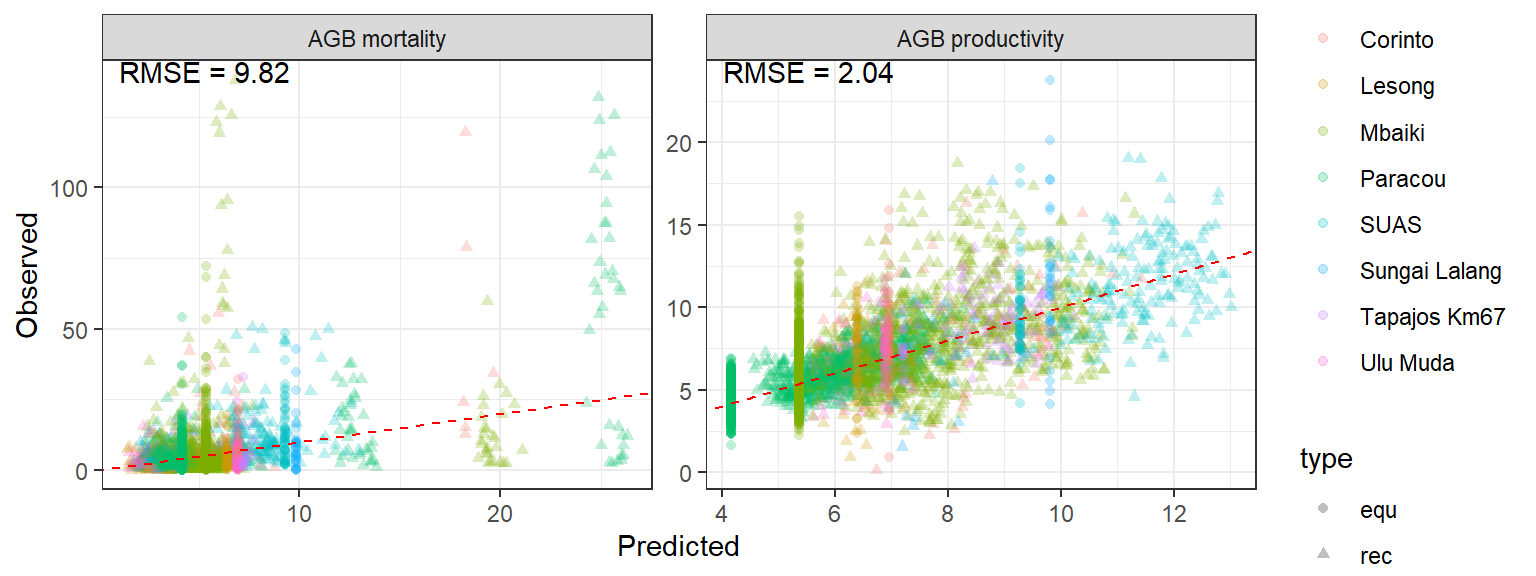
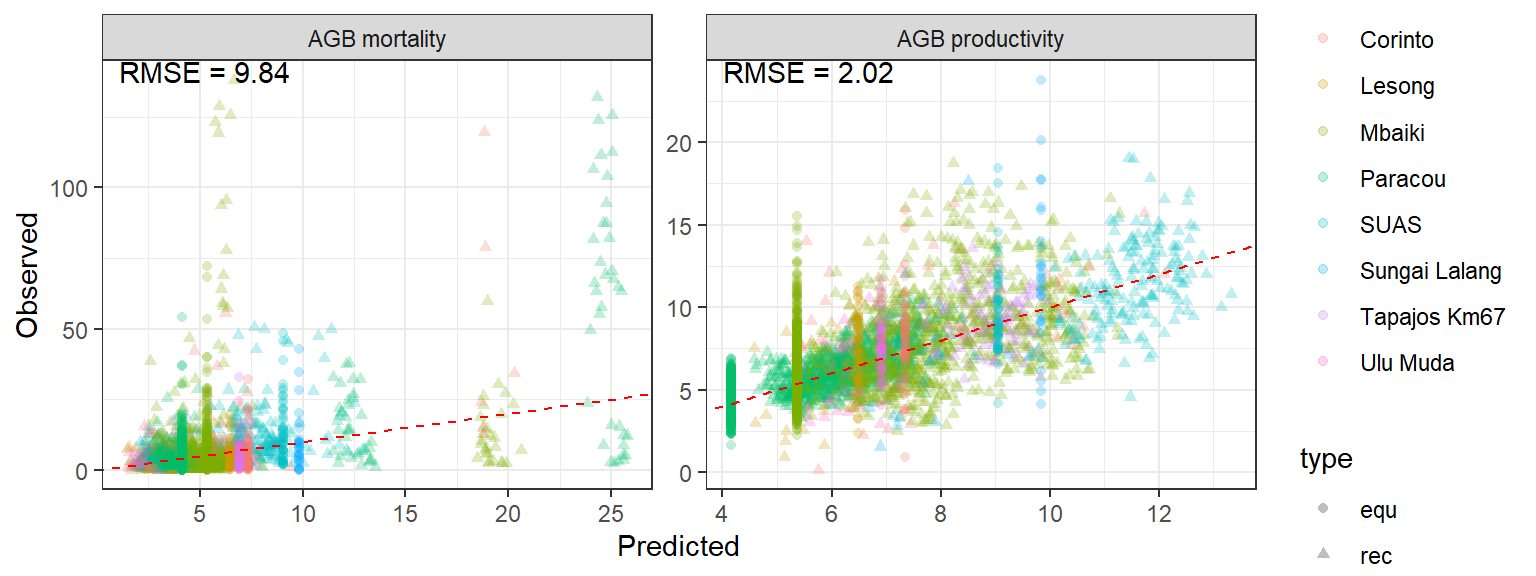
changes to pages

diff --git a/docs/23_calibrate_flux_model.html b/docs/23_calibrate_flux_model.html
@@ -268,6 +268,7 @@ pre > code.sourceCode > span > a:first-child::before { text-decoration: underlin
   <li><a href="#model" id="toc-model" class="nav-link" data-scroll-target="#model">Model</a>
   <ul class="collapse">
   <li><a href="#parameters-k-and-tau" id="toc-parameters-k-and-tau" class="nav-link" data-scroll-target="#parameters-k-and-tau">Parameters (k and tau)</a></li>
+  <li><a href="#parameter-gamma" id="toc-parameter-gamma" class="nav-link" data-scroll-target="#parameter-gamma">Parameter gamma</a></li>
   <li><a href="#visualising-the-trajectories" id="toc-visualising-the-trajectories" class="nav-link" data-scroll-target="#visualising-the-trajectories">Visualising the trajectories</a></li>
   <li><a href="#predicted-agb-recovery" id="toc-predicted-agb-recovery" class="nav-link" data-scroll-target="#predicted-agb-recovery">Predicted AGB recovery</a></li>
   </ul></li>
@@ -369,7 +370,7 @@ pre > code.sourceCode > span > a:first-child::before { text-decoration: underlin
 <span id="cb3-21"><a href="#cb3-21" aria-hidden="true" tabindex="-1"></a>  <span class="fu">flextable</span>()</span></code></pre></div><button title="Copy to Clipboard" class="code-copy-button"><i class="bi"></i></button></div>
 </details>
 <div class="cell-output-display">
-<div class="tabwid"><style>.cl-baa1edbc{}.cl-ba558d32{font-family:'Arial';font-size:11pt;font-weight:normal;font-style:normal;text-decoration:none;color:rgba(0, 0, 0, 1.00);background-color:transparent;}.cl-ba61f6e4{margin:0;text-align:left;border-bottom: 0 solid rgba(0, 0, 0, 1.00);border-top: 0 solid rgba(0, 0, 0, 1.00);border-left: 0 solid rgba(0, 0, 0, 1.00);border-right: 0 solid rgba(0, 0, 0, 1.00);padding-bottom:5pt;padding-top:5pt;padding-left:5pt;padding-right:5pt;line-height: 1;background-color:transparent;}.cl-ba61f702{margin:0;text-align:right;border-bottom: 0 solid rgba(0, 0, 0, 1.00);border-top: 0 solid rgba(0, 0, 0, 1.00);border-left: 0 solid rgba(0, 0, 0, 1.00);border-right: 0 solid rgba(0, 0, 0, 1.00);padding-bottom:5pt;padding-top:5pt;padding-left:5pt;padding-right:5pt;line-height: 1;background-color:transparent;}.cl-ba63877a{width:0.75in;background-color:transparent;vertical-align: middle;border-bottom: 1.5pt solid rgba(102, 102, 102, 1.00);border-top: 1.5pt solid rgba(102, 102, 102, 1.00);border-left: 0 solid rgba(0, 0, 0, 1.00);border-right: 0 solid rgba(0, 0, 0, 1.00);margin-bottom:0;margin-top:0;margin-left:0;margin-right:0;}.cl-ba638798{width:0.75in;background-color:transparent;vertical-align: middle;border-bottom: 1.5pt solid rgba(102, 102, 102, 1.00);border-top: 1.5pt solid rgba(102, 102, 102, 1.00);border-left: 0 solid rgba(0, 0, 0, 1.00);border-right: 0 solid rgba(0, 0, 0, 1.00);margin-bottom:0;margin-top:0;margin-left:0;margin-right:0;}.cl-ba6387a2{width:0.75in;background-color:transparent;vertical-align: middle;border-bottom: 0 solid rgba(0, 0, 0, 1.00);border-top: 0 solid rgba(0, 0, 0, 1.00);border-left: 0 solid rgba(0, 0, 0, 1.00);border-right: 0 solid rgba(0, 0, 0, 1.00);margin-bottom:0;margin-top:0;margin-left:0;margin-right:0;}.cl-ba6387ac{width:0.75in;background-color:transparent;vertical-align: middle;border-bottom: 0 solid rgba(0, 0, 0, 1.00);border-top: 0 solid rgba(0, 0, 0, 1.00);border-left: 0 solid rgba(0, 0, 0, 1.00);border-right: 0 solid rgba(0, 0, 0, 1.00);margin-bottom:0;margin-top:0;margin-left:0;margin-right:0;}.cl-ba6387b6{width:0.75in;background-color:transparent;vertical-align: middle;border-bottom: 1.5pt solid rgba(102, 102, 102, 1.00);border-top: 0 solid rgba(0, 0, 0, 1.00);border-left: 0 solid rgba(0, 0, 0, 1.00);border-right: 0 solid rgba(0, 0, 0, 1.00);margin-bottom:0;margin-top:0;margin-left:0;margin-right:0;}.cl-ba6387c0{width:0.75in;background-color:transparent;vertical-align: middle;border-bottom: 1.5pt solid rgba(102, 102, 102, 1.00);border-top: 0 solid rgba(0, 0, 0, 1.00);border-left: 0 solid rgba(0, 0, 0, 1.00);border-right: 0 solid rgba(0, 0, 0, 1.00);margin-bottom:0;margin-top:0;margin-left:0;margin-right:0;}</style><table data-quarto-disable-processing="true" class="cl-baa1edbc"><thead><tr style="overflow-wrap:break-word;"><th class="cl-ba63877a"><p class="cl-ba61f6e4"><span class="cl-ba558d32">parameter</span></p></th><th class="cl-ba638798"><p class="cl-ba61f702"><span class="cl-ba558d32">min</span></p></th><th class="cl-ba638798"><p class="cl-ba61f702"><span class="cl-ba558d32">max</span></p></th></tr></thead><tbody><tr style="overflow-wrap:break-word;"><td class="cl-ba6387a2"><p class="cl-ba61f6e4"><span class="cl-ba558d32">theta</span></p></td><td class="cl-ba6387ac"><p class="cl-ba61f702"><span class="cl-ba558d32">50.000</span></p></td><td class="cl-ba6387ac"><p class="cl-ba61f702"><span class="cl-ba558d32">1,000.0</span></p></td></tr><tr style="overflow-wrap:break-word;"><td class="cl-ba6387a2"><p class="cl-ba61f6e4"><span class="cl-ba558d32">lambda</span></p></td><td class="cl-ba6387ac"><p class="cl-ba61f702"><span class="cl-ba558d32">0.010</span></p></td><td class="cl-ba6387ac"><p class="cl-ba61f702"><span class="cl-ba558d32">5.0</span></p></td></tr><tr style="overflow-wrap:break-word;"><td class="cl-ba6387a2"><p class="cl-ba61f6e4"><span class="cl-ba558d32">alpha</span></p></td><td class="cl-ba6387ac"><p class="cl-ba61f702"><span class="cl-ba558d32">0.000</span></p></td><td class="cl-ba6387ac"><p class="cl-ba61f702"><span class="cl-ba558d32">200.0</span></p></td></tr><tr style="overflow-wrap:break-word;"><td class="cl-ba6387a2"><p class="cl-ba61f6e4"><span class="cl-ba558d32">delta</span></p></td><td class="cl-ba6387ac"><p class="cl-ba61f702"><span class="cl-ba558d32">0.000</span></p></td><td class="cl-ba6387ac"><p class="cl-ba61f702"><span class="cl-ba558d32">20.0</span></p></td></tr><tr style="overflow-wrap:break-word;"><td class="cl-ba6387a2"><p class="cl-ba61f6e4"><span class="cl-ba558d32">tau</span></p></td><td class="cl-ba6387ac"><p class="cl-ba61f702"><span class="cl-ba558d32">2.000</span></p></td><td class="cl-ba6387ac"><p class="cl-ba61f702"><span class="cl-ba558d32">30.0</span></p></td></tr><tr style="overflow-wrap:break-word;"><td class="cl-ba6387a2"><p class="cl-ba61f6e4"><span class="cl-ba558d32">k</span></p></td><td class="cl-ba6387ac"><p class="cl-ba61f702"><span class="cl-ba558d32">0.100</span></p></td><td class="cl-ba6387ac"><p class="cl-ba61f702"><span class="cl-ba558d32">5.0</span></p></td></tr><tr style="overflow-wrap:break-word;"><td class="cl-ba6387b6"><p class="cl-ba61f6e4"><span class="cl-ba558d32">omega</span></p></td><td class="cl-ba6387c0"><p class="cl-ba61f702"><span class="cl-ba558d32">0.001</span></p></td><td class="cl-ba6387c0"><p class="cl-ba61f702"><span class="cl-ba558d32">0.5</span></p></td></tr></tbody></table></div>
+<div class="tabwid"><style>.cl-fa7fd076{}.cl-fa501a84{font-family:'Arial';font-size:11pt;font-weight:normal;font-style:normal;text-decoration:none;color:rgba(0, 0, 0, 1.00);background-color:transparent;}.cl-fa559360{margin:0;text-align:left;border-bottom: 0 solid rgba(0, 0, 0, 1.00);border-top: 0 solid rgba(0, 0, 0, 1.00);border-left: 0 solid rgba(0, 0, 0, 1.00);border-right: 0 solid rgba(0, 0, 0, 1.00);padding-bottom:5pt;padding-top:5pt;padding-left:5pt;padding-right:5pt;line-height: 1;background-color:transparent;}.cl-fa559374{margin:0;text-align:right;border-bottom: 0 solid rgba(0, 0, 0, 1.00);border-top: 0 solid rgba(0, 0, 0, 1.00);border-left: 0 solid rgba(0, 0, 0, 1.00);border-right: 0 solid rgba(0, 0, 0, 1.00);padding-bottom:5pt;padding-top:5pt;padding-left:5pt;padding-right:5pt;line-height: 1;background-color:transparent;}.cl-fa55fda0{width:0.75in;background-color:transparent;vertical-align: middle;border-bottom: 1.5pt solid rgba(102, 102, 102, 1.00);border-top: 1.5pt solid rgba(102, 102, 102, 1.00);border-left: 0 solid rgba(0, 0, 0, 1.00);border-right: 0 solid rgba(0, 0, 0, 1.00);margin-bottom:0;margin-top:0;margin-left:0;margin-right:0;}.cl-fa55fdb4{width:0.75in;background-color:transparent;vertical-align: middle;border-bottom: 1.5pt solid rgba(102, 102, 102, 1.00);border-top: 1.5pt solid rgba(102, 102, 102, 1.00);border-left: 0 solid rgba(0, 0, 0, 1.00);border-right: 0 solid rgba(0, 0, 0, 1.00);margin-bottom:0;margin-top:0;margin-left:0;margin-right:0;}.cl-fa55fdb5{width:0.75in;background-color:transparent;vertical-align: middle;border-bottom: 0 solid rgba(0, 0, 0, 1.00);border-top: 0 solid rgba(0, 0, 0, 1.00);border-left: 0 solid rgba(0, 0, 0, 1.00);border-right: 0 solid rgba(0, 0, 0, 1.00);margin-bottom:0;margin-top:0;margin-left:0;margin-right:0;}.cl-fa55fdbe{width:0.75in;background-color:transparent;vertical-align: middle;border-bottom: 0 solid rgba(0, 0, 0, 1.00);border-top: 0 solid rgba(0, 0, 0, 1.00);border-left: 0 solid rgba(0, 0, 0, 1.00);border-right: 0 solid rgba(0, 0, 0, 1.00);margin-bottom:0;margin-top:0;margin-left:0;margin-right:0;}.cl-fa55fdbf{width:0.75in;background-color:transparent;vertical-align: middle;border-bottom: 1.5pt solid rgba(102, 102, 102, 1.00);border-top: 0 solid rgba(0, 0, 0, 1.00);border-left: 0 solid rgba(0, 0, 0, 1.00);border-right: 0 solid rgba(0, 0, 0, 1.00);margin-bottom:0;margin-top:0;margin-left:0;margin-right:0;}.cl-fa55fdc8{width:0.75in;background-color:transparent;vertical-align: middle;border-bottom: 1.5pt solid rgba(102, 102, 102, 1.00);border-top: 0 solid rgba(0, 0, 0, 1.00);border-left: 0 solid rgba(0, 0, 0, 1.00);border-right: 0 solid rgba(0, 0, 0, 1.00);margin-bottom:0;margin-top:0;margin-left:0;margin-right:0;}</style><table data-quarto-disable-processing="true" class="cl-fa7fd076"><thead><tr style="overflow-wrap:break-word;"><th class="cl-fa55fda0"><p class="cl-fa559360"><span class="cl-fa501a84">parameter</span></p></th><th class="cl-fa55fdb4"><p class="cl-fa559374"><span class="cl-fa501a84">min</span></p></th><th class="cl-fa55fdb4"><p class="cl-fa559374"><span class="cl-fa501a84">max</span></p></th></tr></thead><tbody><tr style="overflow-wrap:break-word;"><td class="cl-fa55fdb5"><p class="cl-fa559360"><span class="cl-fa501a84">theta</span></p></td><td class="cl-fa55fdbe"><p class="cl-fa559374"><span class="cl-fa501a84">50.000</span></p></td><td class="cl-fa55fdbe"><p class="cl-fa559374"><span class="cl-fa501a84">1,000.0</span></p></td></tr><tr style="overflow-wrap:break-word;"><td class="cl-fa55fdb5"><p class="cl-fa559360"><span class="cl-fa501a84">lambda</span></p></td><td class="cl-fa55fdbe"><p class="cl-fa559374"><span class="cl-fa501a84">0.010</span></p></td><td class="cl-fa55fdbe"><p class="cl-fa559374"><span class="cl-fa501a84">5.0</span></p></td></tr><tr style="overflow-wrap:break-word;"><td class="cl-fa55fdb5"><p class="cl-fa559360"><span class="cl-fa501a84">alpha</span></p></td><td class="cl-fa55fdbe"><p class="cl-fa559374"><span class="cl-fa501a84">0.000</span></p></td><td class="cl-fa55fdbe"><p class="cl-fa559374"><span class="cl-fa501a84">200.0</span></p></td></tr><tr style="overflow-wrap:break-word;"><td class="cl-fa55fdb5"><p class="cl-fa559360"><span class="cl-fa501a84">delta</span></p></td><td class="cl-fa55fdbe"><p class="cl-fa559374"><span class="cl-fa501a84">0.000</span></p></td><td class="cl-fa55fdbe"><p class="cl-fa559374"><span class="cl-fa501a84">20.0</span></p></td></tr><tr style="overflow-wrap:break-word;"><td class="cl-fa55fdb5"><p class="cl-fa559360"><span class="cl-fa501a84">tau</span></p></td><td class="cl-fa55fdbe"><p class="cl-fa559374"><span class="cl-fa501a84">2.000</span></p></td><td class="cl-fa55fdbe"><p class="cl-fa559374"><span class="cl-fa501a84">30.0</span></p></td></tr><tr style="overflow-wrap:break-word;"><td class="cl-fa55fdb5"><p class="cl-fa559360"><span class="cl-fa501a84">k</span></p></td><td class="cl-fa55fdbe"><p class="cl-fa559374"><span class="cl-fa501a84">0.100</span></p></td><td class="cl-fa55fdbe"><p class="cl-fa559374"><span class="cl-fa501a84">5.0</span></p></td></tr><tr style="overflow-wrap:break-word;"><td class="cl-fa55fdbf"><p class="cl-fa559360"><span class="cl-fa501a84">omega</span></p></td><td class="cl-fa55fdc8"><p class="cl-fa559374"><span class="cl-fa501a84">0.001</span></p></td><td class="cl-fa55fdc8"><p class="cl-fa559374"><span class="cl-fa501a84">0.5</span></p></td></tr></tbody></table></div>
 </div>
 </div>
 <div class="cell">
@@ -444,29 +445,29 @@ pre > code.sourceCode > span > a:first-child::before { text-decoration: underlin
 </details>
 <div class="cell-output cell-output-stdout">
 <pre><code>     variable    mean  median    sd   mad      q5     q95 rhat ess_bulk
- lp__         2676.73 2670.71 67.64 73.76 2573.89 2791.30 1.16       20
- mu_lambda       1.58    1.57  0.44  0.33    0.89    2.30 1.00      784
- sigma_lambda    0.80    0.67  0.47  0.36    0.30    1.75 1.01      606
- lambda_s[1]     1.96    1.90  0.48  0.45    1.29    2.83 1.00      575
- lambda_s[2]     1.37    1.34  0.28  0.25    0.97    1.85 1.01      501
- lambda_s[3]     1.50    1.49  0.17  0.17    1.26    1.80 1.02      172
- lambda_s[4]     0.81    0.80  0.10  0.10    0.67    0.98 1.04       83
- lambda_s[5]     1.86    1.71  0.77  0.61    0.90    3.38 1.00     1622
- lambda_s[6]     2.11    1.99  0.64  0.56    1.31    3.38 1.00      895
- lambda_s[7]     2.25    2.06  0.74  0.58    1.38    3.76 1.01      658
+ lp__         2674.92 2664.90 74.08 76.00 2563.59 2812.92 1.20       13
+ mu_lambda       1.56    1.55  0.48  0.35    0.77    2.28 1.01      803
+ sigma_lambda    0.79    0.66  0.47  0.36    0.28    1.76 1.00      754
+ lambda_s[1]     1.84    1.78  0.48  0.43    1.19    2.70 1.02      658
+ lambda_s[2]     1.40    1.36  0.31  0.26    0.99    1.89 1.01      470
+ lambda_s[3]     1.51    1.49  0.18  0.17    1.23    1.82 1.06       49
+ lambda_s[4]     0.81    0.81  0.10  0.10    0.64    0.98 1.12       23
+ lambda_s[5]     1.89    1.73  0.76  0.61    0.95    3.46 1.01      987
+ lambda_s[6]     2.08    1.96  0.64  0.54    1.27    3.31 1.01     1065
+ lambda_s[7]     2.21    2.06  0.66  0.58    1.37    3.55 1.00     1518
  ess_tail
-       69
-     1012
-     1447
-     1843
-     1442
-      758
-      199
-      952
-     1557
-      759
+       40
+      688
+      986
+     1487
+     1524
+      329
+      133
+      575
+     1125
+     1324
 
- # showing 10 of 4887 rows (change via 'max_rows' argument or 'cmdstanr_max_rows' option)</code></pre>
+ # showing 10 of 4895 rows (change via 'max_rows' argument or 'cmdstanr_max_rows' option)</code></pre>
 </div>
 <details class="code-fold">
 <summary>Code</summary>
@@ -480,21 +481,26 @@ pre > code.sourceCode > span > a:first-child::before { text-decoration: underlin
 </div>
 </div>
 </div>
-<p>Rhat superior to 1.1:</p>
+<p>Rhat superior to 1.2:</p>
 <div class="cell">
 <details class="code-fold">
 <summary>Code</summary>
 <div class="code-copy-outer-scaffold"><div class="sourceCode cell-code" id="cb9"><pre class="sourceCode r code-with-copy"><code class="sourceCode r"><span id="cb9-1"><a href="#cb9-1" aria-hidden="true" tabindex="-1"></a>rhat_all <span class="ot">&lt;-</span> <span class="fu">summarise_draws</span>(fit_flux_all_ks_nh<span class="sc">$</span><span class="fu">draws</span>(), <span class="st">"rhat"</span>)</span>
 <span id="cb9-2"><a href="#cb9-2" aria-hidden="true" tabindex="-1"></a>rhat_all <span class="sc">|&gt;</span></span>
-<span id="cb9-3"><a href="#cb9-3" aria-hidden="true" tabindex="-1"></a>  <span class="fu">filter</span>(rhat <span class="sc">&gt;</span> <span class="fl">1.1</span>) <span class="sc">|&gt;</span></span>
-<span id="cb9-4"><a href="#cb9-4" aria-hidden="true" tabindex="-1"></a>  <span class="fu">arrange</span>(<span class="sc">-</span>rhat)</span></code></pre></div><button title="Copy to Clipboard" class="code-copy-button"><i class="bi"></i></button></div>
+<span id="cb9-3"><a href="#cb9-3" aria-hidden="true" tabindex="-1"></a>  <span class="fu">filter</span>(rhat <span class="sc">&gt;</span> <span class="fl">1.2</span>) <span class="sc">|&gt;</span></span>
+<span id="cb9-4"><a href="#cb9-4" aria-hidden="true" tabindex="-1"></a>  <span class="fu">arrange</span>(<span class="sc">-</span>rhat) <span class="sc">|&gt;</span> </span>
+<span id="cb9-5"><a href="#cb9-5" aria-hidden="true" tabindex="-1"></a>  <span class="fu">head</span>()</span></code></pre></div><button title="Copy to Clipboard" class="code-copy-button"><i class="bi"></i></button></div>
 </details>
 <div class="cell-output cell-output-stdout">
-<pre><code># A tibble: 2 × 2
-  variable     rhat
-  &lt;chr&gt;       &lt;dbl&gt;
-1 lp__         1.16
-2 sigma_alpha  1.15</code></pre>
+<pre><code># A tibble: 6 × 2
+  variable      rhat
+  &lt;chr&gt;        &lt;dbl&gt;
+1 mu_alpha      1.24
+2 alpha_p[75]   1.23
+3 alpha_p[70]   1.23
+4 alpha_p[107]  1.23
+5 alpha_p[52]   1.23
+6 alpha_p[67]   1.23</code></pre>
 </div>
 </div>
 <p>The goodness of fit is satisfactory.</p>
@@ -583,16 +589,16 @@ pre > code.sourceCode > span > a:first-child::before { text-decoration: underlin
 </div>
 <div class="cell-output cell-output-stdout">
 <pre><code># A tibble: 8 × 11
-  variable Site   mean median     sd     mad    q5   q95  rhat ess_bulk ess_tail
-  &lt;chr&gt;    &lt;chr&gt; &lt;dbl&gt;  &lt;dbl&gt;  &lt;dbl&gt;   &lt;dbl&gt; &lt;dbl&gt; &lt;dbl&gt; &lt;dbl&gt;    &lt;dbl&gt;    &lt;dbl&gt;
-1 k_s      Cori… 1.29   1.17  0.579  0.521   0.573 2.40   1.01     667.     967.
-2 k_s      Leso… 0.117  0.113 0.0141 0.0130  0.101 0.144  1.01     877.    1649.
-3 k_s      Mbai… 0.579  0.578 0.0498 0.0502  0.500 0.663  1.00    1164.    1581.
-4 k_s      Para… 0.330  0.328 0.0361 0.0357  0.272 0.391  1.00    1177.    2116.
-5 k_s      SUAS  0.277  0.273 0.0821 0.0872  0.145 0.418  1.01     570.     710.
-6 k_s      Sung… 0.112  0.109 0.0110 0.00878 0.101 0.133  1.00    1979.    1999.
-7 k_s      Tapa… 0.291  0.289 0.0849 0.0855  0.153 0.433  1.01     861.     678.
-8 k_s      Ulu … 0.123  0.118 0.0186 0.0163  0.102 0.158  1.00    1790.    1608.</code></pre>
+  variable Site    mean median     sd    mad    q5   q95  rhat ess_bulk ess_tail
+  &lt;chr&gt;    &lt;chr&gt;  &lt;dbl&gt;  &lt;dbl&gt;  &lt;dbl&gt;  &lt;dbl&gt; &lt;dbl&gt; &lt;dbl&gt; &lt;dbl&gt;    &lt;dbl&gt;    &lt;dbl&gt;
+1 k_s      Corin… 3.78   3.88  0.792  0.833  2.30  4.87  1.000    2168.    1848.
+2 k_s      Lesong 0.176  0.156 0.0707 0.0545 0.105 0.318 1.00     1388.    1769.
+3 k_s      Mbaiki 0.573  0.573 0.0534 0.0543 0.487 0.661 1.00     1970.    2447.
+4 k_s      Parac… 0.324  0.323 0.0406 0.0402 0.258 0.392 1.00     1185.    1148.
+5 k_s      SUAS   0.176  0.164 0.0573 0.0557 0.107 0.283 1.00     1885.    1762.
+6 k_s      Sunga… 0.124  0.117 0.0235 0.0174 0.101 0.171 1.00     2730.    1282.
+7 k_s      Tapaj… 0.196  0.185 0.0653 0.0621 0.110 0.317 1.00     2005.    1648.
+8 k_s      Ulu M… 0.135  0.127 0.0326 0.0259 0.102 0.198 1.00     1970.    1958.</code></pre>
 </div>
 </div>
 <div class="cell">
@@ -615,16 +621,48 @@ pre > code.sourceCode > span > a:first-child::before { text-decoration: underlin
 <pre><code># A tibble: 10 × 11
    variable  Site    mean median    sd   mad    q5   q95  rhat ess_bulk ess_tail
    &lt;chr&gt;     &lt;chr&gt;  &lt;dbl&gt;  &lt;dbl&gt; &lt;dbl&gt; &lt;dbl&gt; &lt;dbl&gt; &lt;dbl&gt; &lt;dbl&gt;    &lt;dbl&gt;    &lt;dbl&gt;
- 1 mu_tau    &lt;NA&gt;    6.26   6.29 0.554 0.502 5.32   7.12  1.00    1178.    1714.
- 2 sigma_tau &lt;NA&gt;    1.12   1.08 0.468 0.452 0.477  1.95  1.01     480.     814.
- 3 tau_s     Corin…  7.33   7.30 0.844 0.819 6.03   8.69  1.00     890.    1088.
- 4 tau_s     Lesong  5.49   5.42 0.577 0.582 4.66   6.54  1.00     829.    1065.
- 5 tau_s     Mbaiki  6.12   6.12 0.257 0.257 5.69   6.54  1.00    1746.    2407.
- 6 tau_s     Parac…  7.31   7.31 0.469 0.480 6.54   8.06  1.00    1398.    1884.
- 7 tau_s     SUAS    5.22   5.31 1.04  1.07  3.28   6.76  1.01     744.     668.
- 8 tau_s     Sunga…  6.98   6.91 0.639 0.588 6.09   8.17  1.00    1107.     709.
- 9 tau_s     Tapaj…  5.36   5.48 1.05  1.04  3.42   6.93  1.01     709.     684.
-10 tau_s     Ulu M…  6.44   6.36 0.753 0.678 5.41   7.83  1.00    1504.    1646.</code></pre>
+ 1 mu_tau    &lt;NA&gt;    5.15   5.24 0.824 0.736 3.59   6.31  1.01    1207.     530.
+ 2 sigma_tau &lt;NA&gt;    1.57   1.52 0.483 0.459 0.897  2.47  1.00    1241.    1156.
+ 3 tau_s     Corin…  6.37   6.36 0.560 0.559 5.48   7.32  1.00    2830.    2640.
+ 4 tau_s     Lesong  3.16   3.06 0.711 0.707 2.18   4.49  1.00    1278.     871.
+ 5 tau_s     Mbaiki  6.07   6.07 0.268 0.271 5.62   6.50  1.00    2415.    1883.
+ 6 tau_s     Parac…  7.36   7.38 0.478 0.465 6.54   8.13  1.00    2700.    2404.
+ 7 tau_s     SUAS    4.22   4.11 0.962 1.02  2.86   5.94  1.00    1411.    1322.
+ 8 tau_s     Sunga…  5.54   5.49 0.937 0.913 4.07   7.16  1.00    1537.    1217.
+ 9 tau_s     Tapaj…  4.71   4.64 1.08  1.11  3.07   6.59  1.00    1688.    1728.
+10 tau_s     Ulu M…  5.38   5.29 0.960 0.951 3.96   7.12  1.00    1780.    2095.</code></pre>
+</div>
+</div>
+</section>
+<section id="parameter-gamma" class="level3">
+<h3 class="anchored" data-anchor-id="parameter-gamma">Parameter gamma</h3>
+<div class="cell">
+<details class="code-fold">
+<summary>Code</summary>
+<div class="code-copy-outer-scaffold"><div class="sourceCode cell-code" id="cb19"><pre class="sourceCode r code-with-copy"><code class="sourceCode r"><span id="cb19-1"><a href="#cb19-1" aria-hidden="true" tabindex="-1"></a>fit_flux_all_ks_nh<span class="sc">$</span><span class="fu">summary</span>(<span class="fu">c</span>(<span class="st">"gamma"</span>)) <span class="sc">|&gt;</span></span>
+<span id="cb19-2"><a href="#cb19-2" aria-hidden="true" tabindex="-1"></a>  <span class="fu">separate</span>(variable, <span class="fu">c</span>(<span class="st">"variable"</span>, <span class="st">"sitenum"</span>), <span class="at">sep =</span> <span class="st">"</span><span class="sc">\\</span><span class="st">["</span>) <span class="sc">|&gt;</span></span>
+<span id="cb19-3"><a href="#cb19-3" aria-hidden="true" tabindex="-1"></a>  <span class="fu">mutate</span>(<span class="at">sitenum =</span> <span class="fu">as.integer</span>(<span class="fu">gsub</span>(<span class="st">"]"</span>, <span class="st">""</span>, sitenum))) <span class="sc">|&gt;</span></span>
+<span id="cb19-4"><a href="#cb19-4" aria-hidden="true" tabindex="-1"></a>  <span class="fu">inner_join</span>(<span class="fu">unique</span>(data_rec[, <span class="fu">c</span>(<span class="st">"Site"</span>, <span class="st">"sitenum"</span>)])) <span class="sc">|&gt;</span></span>
+<span id="cb19-5"><a href="#cb19-5" aria-hidden="true" tabindex="-1"></a>  <span class="fu">select</span>(<span class="sc">-</span>sitenum) <span class="sc">|&gt;</span></span>
+<span id="cb19-6"><a href="#cb19-6" aria-hidden="true" tabindex="-1"></a>  <span class="fu">relocate</span>(variable, Site) <span class="sc">|&gt;</span> </span>
+<span id="cb19-7"><a href="#cb19-7" aria-hidden="true" tabindex="-1"></a>   <span class="fu">mutate</span>(<span class="fu">across</span>(<span class="fu">c</span>(mean, median, q5, q95), <span class="sc">~</span> <span class="fu">exp</span>(.x))) <span class="sc">|&gt;</span></span>
+<span id="cb19-8"><a href="#cb19-8" aria-hidden="true" tabindex="-1"></a>  <span class="fu">mutate</span>(<span class="at">variable =</span> <span class="st">"exp(gamma)"</span>)</span></code></pre></div><button title="Copy to Clipboard" class="code-copy-button"><i class="bi"></i></button></div>
+</details>
+<div class="cell-output cell-output-stderr">
+<pre><code>Joining with `by = join_by(sitenum)`</code></pre>
+</div>
+<div class="cell-output cell-output-stdout">
+<pre><code># A tibble: 8 × 11
+  variable  Site   mean median     sd    mad    q5   q95  rhat ess_bulk ess_tail
+  &lt;chr&gt;     &lt;chr&gt; &lt;dbl&gt;  &lt;dbl&gt;  &lt;dbl&gt;  &lt;dbl&gt; &lt;dbl&gt; &lt;dbl&gt; &lt;dbl&gt;    &lt;dbl&gt;    &lt;dbl&gt;
+1 exp(gamm… Cori… 0.876  0.875 0.0298 0.0290 0.834 0.920  1.00    2339.    2306.
+2 exp(gamm… Leso… 0.658  0.655 0.0827 0.0788 0.579 0.760  1.00    1242.    2267.
+3 exp(gamm… Mbai… 1.00   1.00  0.0133 0.0131 0.981 1.02   1.00    1612.    1747.
+4 exp(gamm… Para… 1.01   1.01  0.0195 0.0196 0.981 1.05   1.00    1565.    2295.
+5 exp(gamm… SUAS  1.07   1.07  0.0300 0.0296 1.02  1.13   1.00    1365.    1561.
+6 exp(gamm… Sung… 0.801  0.803 0.102  0.103  0.675 0.943  1.00    2089.    1774.
+7 exp(gamm… Tapa… 1.09   1.09  0.0647 0.0657 0.987 1.22   1.00    1508.    1903.
+8 exp(gamm… Ulu … 0.859  0.858 0.0885 0.0912 0.745 0.994  1.00    1665.    2086.</code></pre>
 </div>
 </div>
 </section>
@@ -634,30 +672,30 @@ pre > code.sourceCode > span > a:first-child::before { text-decoration: underlin
 <div class="cell">
 <details class="code-fold">
 <summary>Code</summary>
-<div class="code-copy-outer-scaffold"><div class="sourceCode cell-code" id="cb19"><pre class="sourceCode r code-with-copy"><code class="sourceCode r"><span id="cb19-1"><a href="#cb19-1" aria-hidden="true" tabindex="-1"></a>pov_data <span class="sc">|&gt;</span></span>
-<span id="cb19-2"><a href="#cb19-2" aria-hidden="true" tabindex="-1"></a>  <span class="fu">subset</span>(variable <span class="sc">==</span> <span class="st">"prod"</span>) <span class="sc">|&gt;</span></span>
-<span id="cb19-3"><a href="#cb19-3" aria-hidden="true" tabindex="-1"></a>  <span class="fu">mutate</span>(<span class="at">Plot =</span> plot_new) <span class="sc">|&gt;</span></span>
-<span id="cb19-4"><a href="#cb19-4" aria-hidden="true" tabindex="-1"></a>  <span class="fu">graph_traj</span>(<span class="fu">expression</span>(<span class="st">"AGB productivity ["</span> <span class="sc">~</span> Mg <span class="sc">~</span> ha<span class="sc">^-</span><span class="dv">1</span> <span class="sc">~</span> yr<span class="sc">^-</span><span class="dv">1</span> <span class="sc">~</span> <span class="st">"]"</span>))</span></code></pre></div><button title="Copy to Clipboard" class="code-copy-button"><i class="bi"></i></button></div>
+<div class="code-copy-outer-scaffold"><div class="sourceCode cell-code" id="cb22"><pre class="sourceCode r code-with-copy"><code class="sourceCode r"><span id="cb22-1"><a href="#cb22-1" aria-hidden="true" tabindex="-1"></a>pov_data <span class="sc">|&gt;</span></span>
+<span id="cb22-2"><a href="#cb22-2" aria-hidden="true" tabindex="-1"></a>  <span class="fu">subset</span>(variable <span class="sc">==</span> <span class="st">"prod"</span>) <span class="sc">|&gt;</span></span>
+<span id="cb22-3"><a href="#cb22-3" aria-hidden="true" tabindex="-1"></a>  <span class="fu">mutate</span>(<span class="at">Plot =</span> plot_new) <span class="sc">|&gt;</span></span>
+<span id="cb22-4"><a href="#cb22-4" aria-hidden="true" tabindex="-1"></a>  <span class="fu">graph_traj</span>(<span class="fu">expression</span>(<span class="st">"AGB productivity ["</span> <span class="sc">~</span> Mg <span class="sc">~</span> ha<span class="sc">^-</span><span class="dv">1</span> <span class="sc">~</span> yr<span class="sc">^-</span><span class="dv">1</span> <span class="sc">~</span> <span class="st">"]"</span>))</span></code></pre></div><button title="Copy to Clipboard" class="code-copy-button"><i class="bi"></i></button></div>
 </details>
 <div class="cell-output-display">
 <div class="quarto-figure quarto-figure-center">
 <figure class="figure">
-<p><img src="23_calibrate_flux_model_files/figure-html/unnamed-chunk-11-1.png" class="img-fluid figure-img" width="960"></p>
+<p><img src="23_calibrate_flux_model_files/figure-html/unnamed-chunk-12-1.png" class="img-fluid figure-img" width="960"></p>
 <figcaption>Predicted trajectories.</figcaption>
 </figure>
 </div>
 </div>
 <details class="code-fold">
 <summary>Code</summary>
-<div class="code-copy-outer-scaffold"><div class="sourceCode cell-code" id="cb20"><pre class="sourceCode r code-with-copy"><code class="sourceCode r"><span id="cb20-1"><a href="#cb20-1" aria-hidden="true" tabindex="-1"></a>pov_data <span class="sc">|&gt;</span></span>
-<span id="cb20-2"><a href="#cb20-2" aria-hidden="true" tabindex="-1"></a>  <span class="fu">subset</span>(variable <span class="sc">==</span> <span class="st">"mort"</span>) <span class="sc">|&gt;</span></span>
-<span id="cb20-3"><a href="#cb20-3" aria-hidden="true" tabindex="-1"></a>  <span class="fu">mutate</span>(<span class="at">Plot =</span> plot_new) <span class="sc">|&gt;</span></span>
-<span id="cb20-4"><a href="#cb20-4" aria-hidden="true" tabindex="-1"></a>  <span class="fu">graph_traj</span>(<span class="fu">expression</span>(<span class="st">"AGB mortality ["</span> <span class="sc">~</span> Mg <span class="sc">~</span> ha<span class="sc">^-</span><span class="dv">1</span> <span class="sc">~</span> yr<span class="sc">^-</span><span class="dv">1</span> <span class="sc">~</span> <span class="st">"]"</span>))</span></code></pre></div><button title="Copy to Clipboard" class="code-copy-button"><i class="bi"></i></button></div>
+<div class="code-copy-outer-scaffold"><div class="sourceCode cell-code" id="cb23"><pre class="sourceCode r code-with-copy"><code class="sourceCode r"><span id="cb23-1"><a href="#cb23-1" aria-hidden="true" tabindex="-1"></a>pov_data <span class="sc">|&gt;</span></span>
+<span id="cb23-2"><a href="#cb23-2" aria-hidden="true" tabindex="-1"></a>  <span class="fu">subset</span>(variable <span class="sc">==</span> <span class="st">"mort"</span>) <span class="sc">|&gt;</span></span>
+<span id="cb23-3"><a href="#cb23-3" aria-hidden="true" tabindex="-1"></a>  <span class="fu">mutate</span>(<span class="at">Plot =</span> plot_new) <span class="sc">|&gt;</span></span>
+<span id="cb23-4"><a href="#cb23-4" aria-hidden="true" tabindex="-1"></a>  <span class="fu">graph_traj</span>(<span class="fu">expression</span>(<span class="st">"AGB mortality ["</span> <span class="sc">~</span> Mg <span class="sc">~</span> ha<span class="sc">^-</span><span class="dv">1</span> <span class="sc">~</span> yr<span class="sc">^-</span><span class="dv">1</span> <span class="sc">~</span> <span class="st">"]"</span>))</span></code></pre></div><button title="Copy to Clipboard" class="code-copy-button"><i class="bi"></i></button></div>
 </details>
 <div class="cell-output-display">
 <div class="quarto-figure quarto-figure-center">
 <figure class="figure">
-<p><img src="23_calibrate_flux_model_files/figure-html/unnamed-chunk-11-2.png" class="img-fluid figure-img" width="960"></p>
+<p><img src="23_calibrate_flux_model_files/figure-html/unnamed-chunk-12-2.png" class="img-fluid figure-img" width="960"></p>
 <figcaption>Predicted trajectories.</figcaption>
 </figure>
 </div>
@@ -670,29 +708,29 @@ pre > code.sourceCode > span > a:first-child::before { text-decoration: underlin
 <div class="cell">
 <details class="code-fold">
 <summary>Code</summary>
-<div class="code-copy-outer-scaffold"><div class="sourceCode cell-code" id="cb21"><pre class="sourceCode r code-with-copy"><code class="sourceCode r"><span id="cb21-1"><a href="#cb21-1" aria-hidden="true" tabindex="-1"></a>data_t0 <span class="ot">&lt;-</span> data_rec <span class="sc">|&gt;</span></span>
-<span id="cb21-2"><a href="#cb21-2" aria-hidden="true" tabindex="-1"></a>  <span class="fu">group_by</span>(plotnum) <span class="sc">|&gt;</span></span>
-<span id="cb21-3"><a href="#cb21-3" aria-hidden="true" tabindex="-1"></a>  <span class="fu">summarise</span>(<span class="at">t0 =</span> trec[<span class="fu">which.min</span>(Year)], <span class="at">y0 =</span> stocks[<span class="fu">which.min</span>(Year)])</span>
-<span id="cb21-4"><a href="#cb21-4" aria-hidden="true" tabindex="-1"></a>theta <span class="ot">&lt;-</span> fit_flux_all_ks_nh<span class="sc">$</span><span class="fu">summary</span>(<span class="fu">c</span>(<span class="st">"theta_s"</span>)) <span class="sc">|&gt;</span></span>
-<span id="cb21-5"><a href="#cb21-5" aria-hidden="true" tabindex="-1"></a>  <span class="fu">separate</span>(variable, <span class="fu">c</span>(<span class="st">"variable"</span>, <span class="st">"sitenum"</span>), <span class="at">sep =</span> <span class="st">"</span><span class="sc">\\</span><span class="st">["</span>) <span class="sc">|&gt;</span></span>
-<span id="cb21-6"><a href="#cb21-6" aria-hidden="true" tabindex="-1"></a>  <span class="fu">mutate</span>(<span class="at">sitenum =</span> <span class="fu">as.integer</span>(<span class="fu">gsub</span>(<span class="st">"]"</span>, <span class="st">""</span>, sitenum))) <span class="sc">|&gt;</span></span>
-<span id="cb21-7"><a href="#cb21-7" aria-hidden="true" tabindex="-1"></a>  <span class="fu">inner_join</span>(<span class="fu">unique</span>(data_rec[, <span class="fu">c</span>(<span class="st">"Site"</span>, <span class="st">"sitenum"</span>)])) <span class="sc">|&gt;</span></span>
-<span id="cb21-8"><a href="#cb21-8" aria-hidden="true" tabindex="-1"></a>  <span class="fu">select</span>(Site, median, q5, q95) <span class="sc">|&gt;</span></span>
-<span id="cb21-9"><a href="#cb21-9" aria-hidden="true" tabindex="-1"></a>  <span class="fu">rename</span>(<span class="at">theta_median =</span> median, <span class="at">theta_q5 =</span> q5, <span class="at">theta_q95 =</span> q95)</span></code></pre></div><button title="Copy to Clipboard" class="code-copy-button"><i class="bi"></i></button></div>
+<div class="code-copy-outer-scaffold"><div class="sourceCode cell-code" id="cb24"><pre class="sourceCode r code-with-copy"><code class="sourceCode r"><span id="cb24-1"><a href="#cb24-1" aria-hidden="true" tabindex="-1"></a>data_t0 <span class="ot">&lt;-</span> data_rec <span class="sc">|&gt;</span></span>
+<span id="cb24-2"><a href="#cb24-2" aria-hidden="true" tabindex="-1"></a>  <span class="fu">group_by</span>(plotnum) <span class="sc">|&gt;</span></span>
+<span id="cb24-3"><a href="#cb24-3" aria-hidden="true" tabindex="-1"></a>  <span class="fu">summarise</span>(<span class="at">t0 =</span> trec[<span class="fu">which.min</span>(Year)], <span class="at">y0 =</span> stocks[<span class="fu">which.min</span>(Year)])</span>
+<span id="cb24-4"><a href="#cb24-4" aria-hidden="true" tabindex="-1"></a>theta <span class="ot">&lt;-</span> fit_flux_all_ks_nh<span class="sc">$</span><span class="fu">summary</span>(<span class="fu">c</span>(<span class="st">"theta_s"</span>)) <span class="sc">|&gt;</span></span>
+<span id="cb24-5"><a href="#cb24-5" aria-hidden="true" tabindex="-1"></a>  <span class="fu">separate</span>(variable, <span class="fu">c</span>(<span class="st">"variable"</span>, <span class="st">"sitenum"</span>), <span class="at">sep =</span> <span class="st">"</span><span class="sc">\\</span><span class="st">["</span>) <span class="sc">|&gt;</span></span>
+<span id="cb24-6"><a href="#cb24-6" aria-hidden="true" tabindex="-1"></a>  <span class="fu">mutate</span>(<span class="at">sitenum =</span> <span class="fu">as.integer</span>(<span class="fu">gsub</span>(<span class="st">"]"</span>, <span class="st">""</span>, sitenum))) <span class="sc">|&gt;</span></span>
+<span id="cb24-7"><a href="#cb24-7" aria-hidden="true" tabindex="-1"></a>  <span class="fu">inner_join</span>(<span class="fu">unique</span>(data_rec[, <span class="fu">c</span>(<span class="st">"Site"</span>, <span class="st">"sitenum"</span>)])) <span class="sc">|&gt;</span></span>
+<span id="cb24-8"><a href="#cb24-8" aria-hidden="true" tabindex="-1"></a>  <span class="fu">select</span>(Site, median, q5, q95) <span class="sc">|&gt;</span></span>
+<span id="cb24-9"><a href="#cb24-9" aria-hidden="true" tabindex="-1"></a>  <span class="fu">rename</span>(<span class="at">theta_median =</span> median, <span class="at">theta_q5 =</span> q5, <span class="at">theta_q95 =</span> q95)</span></code></pre></div><button title="Copy to Clipboard" class="code-copy-button"><i class="bi"></i></button></div>
 </details>
 <div class="cell-output cell-output-stderr">
 <pre><code>Joining with `by = join_by(sitenum)`</code></pre>
 </div>
 <details class="code-fold">
 <summary>Code</summary>
-<div class="code-copy-outer-scaffold"><div class="sourceCode cell-code" id="cb23"><pre class="sourceCode r code-with-copy"><code class="sourceCode r"><span id="cb23-1"><a href="#cb23-1" aria-hidden="true" tabindex="-1"></a>agb_rec <span class="ot">&lt;-</span> fit_flux_all_ks_nh<span class="sc">$</span><span class="fu">summary</span>(<span class="fu">c</span>(<span class="st">"diff_log"</span>)) <span class="sc">|&gt;</span></span>
-<span id="cb23-2"><a href="#cb23-2" aria-hidden="true" tabindex="-1"></a>  <span class="fu">separate</span>(variable, <span class="fu">c</span>(<span class="st">"variable"</span>, <span class="st">"plotnum"</span>), <span class="at">sep =</span> <span class="st">"</span><span class="sc">\\</span><span class="st">["</span>) <span class="sc">|&gt;</span></span>
-<span id="cb23-3"><a href="#cb23-3" aria-hidden="true" tabindex="-1"></a>  <span class="fu">mutate</span>(<span class="at">plotnum =</span> <span class="fu">as.integer</span>(<span class="fu">gsub</span>(<span class="st">"]"</span>, <span class="st">""</span>, plotnum))) <span class="sc">|&gt;</span></span>
-<span id="cb23-4"><a href="#cb23-4" aria-hidden="true" tabindex="-1"></a>  <span class="fu">inner_join</span>(<span class="fu">unique</span>(data_rec[, <span class="fu">c</span>(<span class="st">"Site"</span>, <span class="st">"Plot"</span>, <span class="st">"plotnum"</span>)])) <span class="sc">|&gt;</span></span>
-<span id="cb23-5"><a href="#cb23-5" aria-hidden="true" tabindex="-1"></a>  <span class="fu">left_join</span>(data_t0) <span class="sc">|&gt;</span></span>
-<span id="cb23-6"><a href="#cb23-6" aria-hidden="true" tabindex="-1"></a>  <span class="fu">mutate</span>(<span class="at">rec_median =</span> y0 <span class="sc">+</span> median, <span class="at">rec_q5 =</span> q5 <span class="sc">+</span> y0, <span class="at">rec_q95 =</span> q95 <span class="sc">+</span> y0) <span class="sc">|&gt;</span></span>
-<span id="cb23-7"><a href="#cb23-7" aria-hidden="true" tabindex="-1"></a>  <span class="fu">select</span>(Site, Plot, rec_median, rec_q5, rec_q95) <span class="sc">|&gt;</span></span>
-<span id="cb23-8"><a href="#cb23-8" aria-hidden="true" tabindex="-1"></a>  <span class="fu">left_join</span>(theta)</span></code></pre></div><button title="Copy to Clipboard" class="code-copy-button"><i class="bi"></i></button></div>
+<div class="code-copy-outer-scaffold"><div class="sourceCode cell-code" id="cb26"><pre class="sourceCode r code-with-copy"><code class="sourceCode r"><span id="cb26-1"><a href="#cb26-1" aria-hidden="true" tabindex="-1"></a>agb_rec <span class="ot">&lt;-</span> fit_flux_all_ks_nh<span class="sc">$</span><span class="fu">summary</span>(<span class="fu">c</span>(<span class="st">"diff_log"</span>)) <span class="sc">|&gt;</span></span>
+<span id="cb26-2"><a href="#cb26-2" aria-hidden="true" tabindex="-1"></a>  <span class="fu">separate</span>(variable, <span class="fu">c</span>(<span class="st">"variable"</span>, <span class="st">"plotnum"</span>), <span class="at">sep =</span> <span class="st">"</span><span class="sc">\\</span><span class="st">["</span>) <span class="sc">|&gt;</span></span>
+<span id="cb26-3"><a href="#cb26-3" aria-hidden="true" tabindex="-1"></a>  <span class="fu">mutate</span>(<span class="at">plotnum =</span> <span class="fu">as.integer</span>(<span class="fu">gsub</span>(<span class="st">"]"</span>, <span class="st">""</span>, plotnum))) <span class="sc">|&gt;</span></span>
+<span id="cb26-4"><a href="#cb26-4" aria-hidden="true" tabindex="-1"></a>  <span class="fu">inner_join</span>(<span class="fu">unique</span>(data_rec[, <span class="fu">c</span>(<span class="st">"Site"</span>, <span class="st">"Plot"</span>, <span class="st">"plotnum"</span>)])) <span class="sc">|&gt;</span></span>
+<span id="cb26-5"><a href="#cb26-5" aria-hidden="true" tabindex="-1"></a>  <span class="fu">left_join</span>(data_t0) <span class="sc">|&gt;</span></span>
+<span id="cb26-6"><a href="#cb26-6" aria-hidden="true" tabindex="-1"></a>  <span class="fu">mutate</span>(<span class="at">rec_median =</span> y0 <span class="sc">+</span> median, <span class="at">rec_q5 =</span> q5 <span class="sc">+</span> y0, <span class="at">rec_q95 =</span> q95 <span class="sc">+</span> y0) <span class="sc">|&gt;</span></span>
+<span id="cb26-7"><a href="#cb26-7" aria-hidden="true" tabindex="-1"></a>  <span class="fu">select</span>(Site, Plot, rec_median, rec_q5, rec_q95) <span class="sc">|&gt;</span></span>
+<span id="cb26-8"><a href="#cb26-8" aria-hidden="true" tabindex="-1"></a>  <span class="fu">left_join</span>(theta)</span></code></pre></div><button title="Copy to Clipboard" class="code-copy-button"><i class="bi"></i></button></div>
 </details>
 <div class="cell-output cell-output-stderr">
 <pre><code>Joining with `by = join_by(plotnum)`
@@ -701,20 +739,20 @@ Joining with `by = join_by(Site)`</code></pre>
 </div>
 <details class="code-fold">
 <summary>Code</summary>
-<div class="code-copy-outer-scaffold"><div class="sourceCode cell-code" id="cb25"><pre class="sourceCode r code-with-copy"><code class="sourceCode r"><span id="cb25-1"><a href="#cb25-1" aria-hidden="true" tabindex="-1"></a><span class="fu">ggplot</span>(agb_rec, <span class="fu">aes</span>(theta_median, rec_median, <span class="at">col =</span> Site)) <span class="sc">+</span></span>
-<span id="cb25-2"><a href="#cb25-2" aria-hidden="true" tabindex="-1"></a>  <span class="fu">geom_abline</span>(<span class="at">intercept =</span> <span class="dv">0</span>, <span class="at">slope =</span> <span class="dv">1</span>, <span class="at">lty =</span> <span class="dv">2</span>) <span class="sc">+</span></span>
-<span id="cb25-3"><a href="#cb25-3" aria-hidden="true" tabindex="-1"></a>  <span class="fu">geom_pointrange</span>(<span class="fu">aes</span>(<span class="at">ymin =</span> rec_q5, <span class="at">ymax =</span> rec_q95)) <span class="sc">+</span></span>
-<span id="cb25-4"><a href="#cb25-4" aria-hidden="true" tabindex="-1"></a>  <span class="fu">geom_errorbar</span>(<span class="fu">aes</span>(<span class="at">xmin =</span> theta_q5, <span class="at">xmax =</span> theta_q95), <span class="at">orientation =</span> <span class="st">"y"</span>) <span class="sc">+</span></span>
-<span id="cb25-5"><a href="#cb25-5" aria-hidden="true" tabindex="-1"></a>  <span class="fu">theme_minimal</span>() <span class="sc">+</span></span>
-<span id="cb25-6"><a href="#cb25-6" aria-hidden="true" tabindex="-1"></a>  <span class="fu">labs</span>(</span>
-<span id="cb25-7"><a href="#cb25-7" aria-hidden="true" tabindex="-1"></a>    <span class="at">x =</span> <span class="st">"Estimated AGB of unlogged plots (parameter theta)"</span>,</span>
-<span id="cb25-8"><a href="#cb25-8" aria-hidden="true" tabindex="-1"></a>    <span class="at">y =</span> <span class="st">"Estimated AGB of logged plots after recovery"</span></span>
-<span id="cb25-9"><a href="#cb25-9" aria-hidden="true" tabindex="-1"></a>  )</span></code></pre></div><button title="Copy to Clipboard" class="code-copy-button"><i class="bi"></i></button></div>
+<div class="code-copy-outer-scaffold"><div class="sourceCode cell-code" id="cb28"><pre class="sourceCode r code-with-copy"><code class="sourceCode r"><span id="cb28-1"><a href="#cb28-1" aria-hidden="true" tabindex="-1"></a><span class="fu">ggplot</span>(agb_rec, <span class="fu">aes</span>(theta_median, rec_median, <span class="at">col =</span> Site)) <span class="sc">+</span></span>
+<span id="cb28-2"><a href="#cb28-2" aria-hidden="true" tabindex="-1"></a>  <span class="fu">geom_abline</span>(<span class="at">intercept =</span> <span class="dv">0</span>, <span class="at">slope =</span> <span class="dv">1</span>, <span class="at">lty =</span> <span class="dv">2</span>) <span class="sc">+</span></span>
+<span id="cb28-3"><a href="#cb28-3" aria-hidden="true" tabindex="-1"></a>  <span class="fu">geom_pointrange</span>(<span class="fu">aes</span>(<span class="at">ymin =</span> rec_q5, <span class="at">ymax =</span> rec_q95)) <span class="sc">+</span></span>
+<span id="cb28-4"><a href="#cb28-4" aria-hidden="true" tabindex="-1"></a>  <span class="fu">geom_errorbar</span>(<span class="fu">aes</span>(<span class="at">xmin =</span> theta_q5, <span class="at">xmax =</span> theta_q95), <span class="at">orientation =</span> <span class="st">"y"</span>) <span class="sc">+</span></span>
+<span id="cb28-5"><a href="#cb28-5" aria-hidden="true" tabindex="-1"></a>  <span class="fu">theme_minimal</span>() <span class="sc">+</span></span>
+<span id="cb28-6"><a href="#cb28-6" aria-hidden="true" tabindex="-1"></a>  <span class="fu">labs</span>(</span>
+<span id="cb28-7"><a href="#cb28-7" aria-hidden="true" tabindex="-1"></a>    <span class="at">x =</span> <span class="st">"Estimated AGB of unlogged plots (parameter theta)"</span>,</span>
+<span id="cb28-8"><a href="#cb28-8" aria-hidden="true" tabindex="-1"></a>    <span class="at">y =</span> <span class="st">"Estimated AGB of logged plots after recovery"</span></span>
+<span id="cb28-9"><a href="#cb28-9" aria-hidden="true" tabindex="-1"></a>  )</span></code></pre></div><button title="Copy to Clipboard" class="code-copy-button"><i class="bi"></i></button></div>
 </details>
 <div class="cell-output-display">
 <div>
 <figure class="figure">
-<p><img src="23_calibrate_flux_model_files/figure-html/unnamed-chunk-12-1.png" class="img-fluid figure-img" width="672"></p>
+<p><img src="23_calibrate_flux_model_files/figure-html/unnamed-chunk-13-1.png" class="img-fluid figure-img" width="672"></p>
 </figure>
 </div>
 </div>